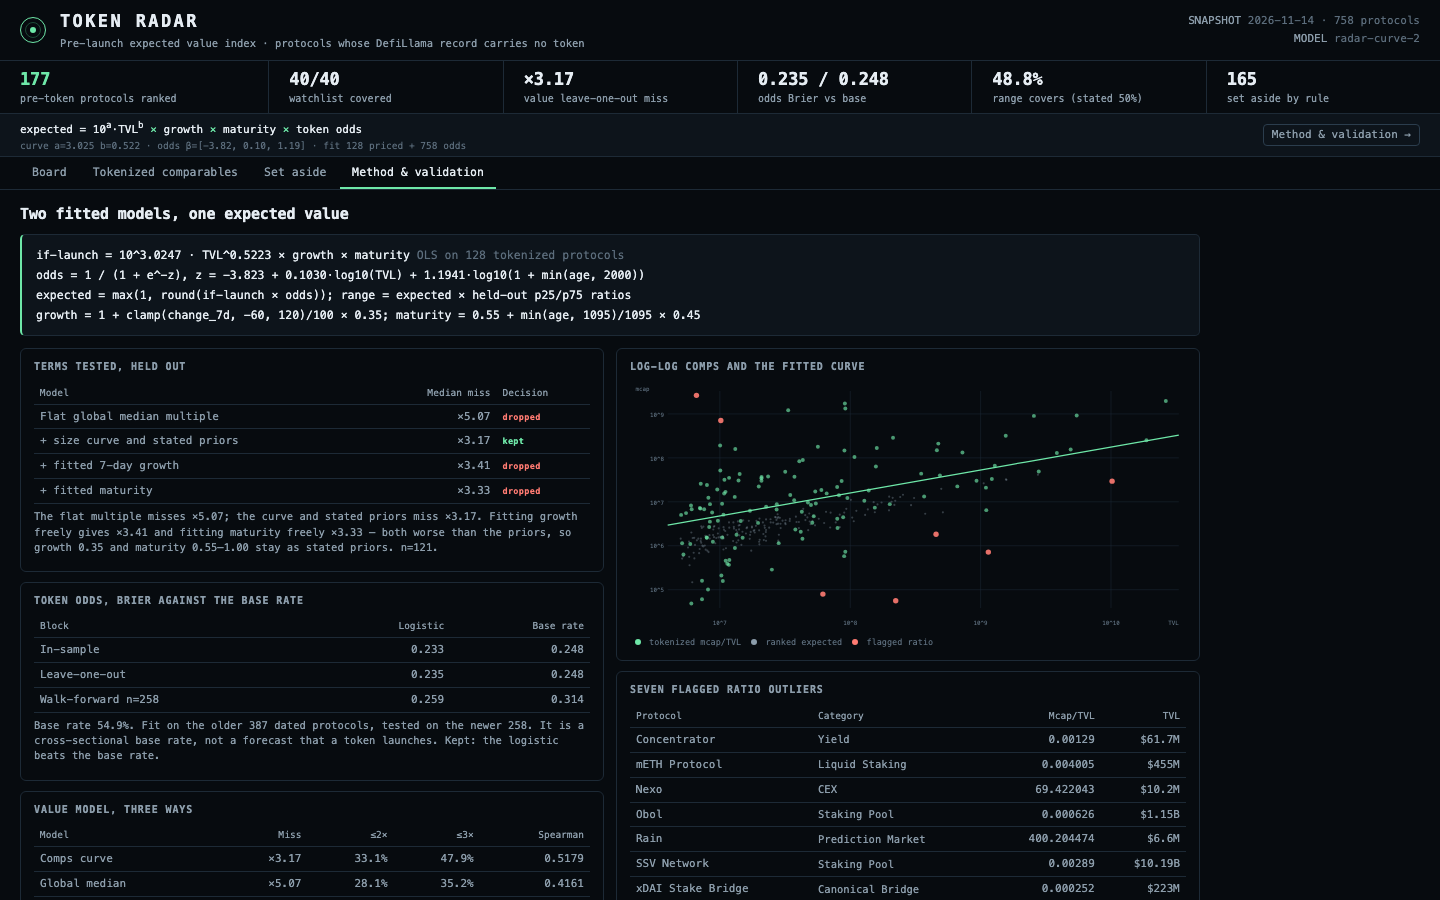
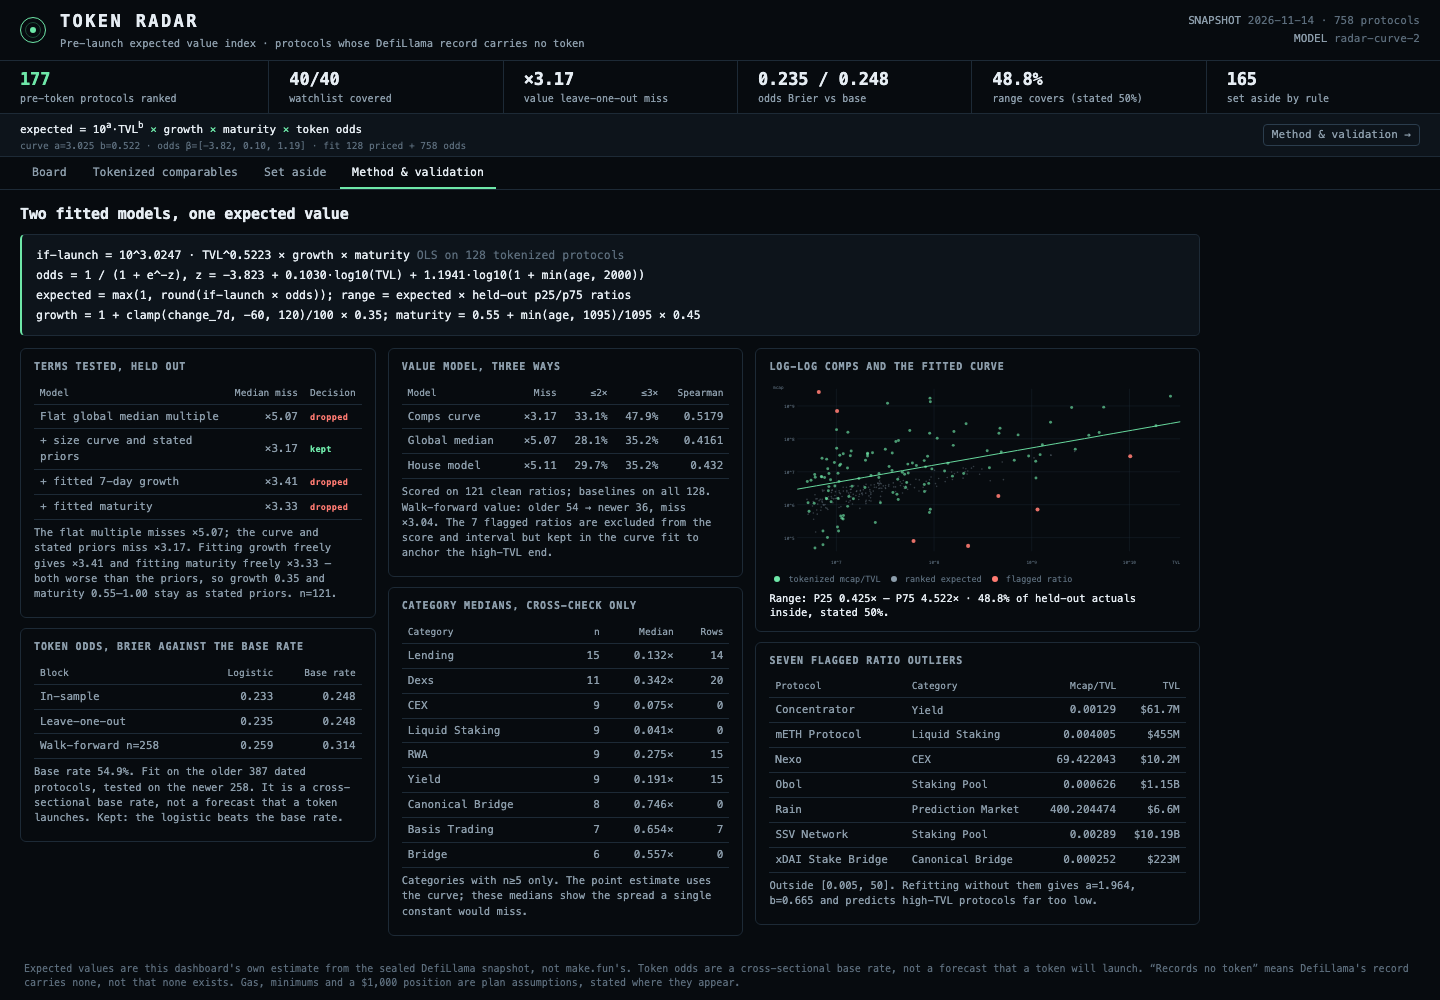
Fit the board table to 1440px and compact the method layout
- Fixed table layout, 1360px max width, 38px right margin; 11px header and cells
- Shorter labels: If launch, Expected, Drop/$1k, Net if launch, Net $/h, Plan
- Last column has a 14px right padding; protocol sublines ellipsis
- Ribbon legend wraps and stays inside the content width; brighter evidence lines
- Method: 3 columns, category medians n>=5, range line under the chart
- Screenshots: board and method 1440x1000, detail and filtered 1440x900
- Measured innerWidth 1440 / doc scrollWidth 1440 / table scrollWidth 1360

diff --git a/dashboard/app.js b/dashboard/app.js
@@ -72,9 +72,9 @@ const chains = [...chainCount.keys()].sort((a, b) => chainCount.get(b) - chainCo
 const maxTvl = Math.max(...R.rows.map((r) => r.tvl_usd));
 const COLS = [
   ['rank', '#', 'num'], ['name', 'Protocol', ''], ['tvl_usd', 'TVL', 'num'], ['change_7d', '7d', 'num'],
-  ['age_days', 'Age', 'num'], ['odds', 'Odds', 'num'], ['if_launch_usd', 'If launches', 'num'],
-  ['implied_value_usd', 'Expected · P25–P75', 'num'], ['drop_per_1k_usd', 'Drop/$1k', 'num'],
-  ['net_if_launch_usd', 'Net if launch', 'num'], ['net_per_hour_usd', 'Net $/h', 'num'], ['hold_days', 'Verdict', 'num'],
+  ['age_days', 'Age', 'num'], ['odds', 'Odds', 'num'], ['if_launch_usd', 'If launch', 'num'],
+  ['implied_value_usd', 'Expected', 'num'], ['drop_per_1k_usd', 'Drop/$1k', 'num'],
+  ['net_if_launch_usd', 'Net if launch', 'num'], ['net_per_hour_usd', 'Net $/h', 'num'], ['hold_days', 'Plan', 'num'],
 ];
 const preVerdict = () => {
   const q = state.q.toLowerCase();
@@ -112,7 +112,7 @@ function evidence() {
       <div class="bigstat">${v.band.coverage}%</div>
       <div class="eline">inside P25–P75, against a stated 50%</div>
       <div class="eline">P25 ${R.curve.band.p25.toFixed(3)}× · P75 ${R.curve.band.p75.toFixed(3)}×</div>
-      <div class="eline">curve ${x2(v.curve.median_miss)} · global ${x2(v.global.median_miss)} · house ${x2(v.house.median_miss)}</div></div>
+      <div class="eline hi">curve ${x2(v.curve.median_miss)} · global ${x2(v.global.median_miss)} · house ${x2(v.house.median_miss)}</div></div>
   </div>`;
 }
 function chartSvg(W = 620, H = 280) {
@@ -283,7 +283,7 @@ function renderMethod() {
   const c = R.counts, t = R.terms, o = R.odds;
   const status = (n, cut) => n <= cut ? '<span class="keep">kept</span>' : '<span class="drop">dropped</span>';
   const termRows = [['Flat global median multiple', t.flat, status(t.flat, 4)], ['+ size curve and stated priors', t.curve, status(t.curve, 4)], ['+ fitted 7-day growth', t.growth, status(t.growth, t.curve)], ['+ fitted maturity', t.maturity, status(t.maturity, t.curve)]].map(([n, m, s]) => `<tr><td>${n}</td><td class="num">${x2(m)}</td><td>${s}</td></tr>`).join('');
-  const catRows = R.categories.map((k) => `<tr><td>${esc(k.name)}</td><td class="num">${k.n}</td><td class="num">${x(k.median)}</td><td class="num">${k.rows}</td></tr>`).join('');
+  const catRows = R.categories.filter((k) => k.n >= 5).sort((a, b) => b.n - a.n || cmp(a.name, b.name)).map((k) => `<tr><td>${esc(k.name)}</td><td class="num">${k.n}</td><td class="num">${x(k.median)}</td><td class="num">${k.rows}</td></tr>`).join('');
   const outRows = v.outliers.map((q) => `<tr><td>${esc(q.name)}</td><td class="sub">${esc(q.category ?? 'none')}</td><td class="num">${q.ratio}</td><td class="num">${usd(q.tvl_usd)}</td></tr>`).join('');
   const modelRow = (name, s) => `<tr><td>${name}</td><td class="num">${x2(s.median_miss)}</td><td class="num">${s.within_2x}%</td><td class="num">${s.within_3x}%</td><td class="num">${s.spearman}</td></tr>`;
   view.innerHTML = `<div class="prose">
@@ -302,13 +302,13 @@ function renderMethod() {
       <tr><td>Leave-one-out</td><td class="num">${o.brier_loo.toFixed(3)}</td><td class="num">${baseBrier.toFixed(3)}</td></tr>
       <tr><td>Walk-forward n=${o.walk.test_n}</td><td class="num">${o.walk.brier.toFixed(3)}</td><td class="num">${o.walk.base_brier.toFixed(3)}</td></tr></table>
       <p class="note">Base rate ${(o.base_rate * 100).toFixed(1)}%. Fit on the older ${o.walk.train_n} dated protocols, tested on the newer ${o.walk.test_n}. It is a cross-sectional base rate, not a forecast that a token launches. ${o.brier_loo < baseBrier ? 'Kept: the logistic beats the base rate.' : 'Not kept: it does not beat the base rate.'}</p></div>
+  </div><div>
     <div class="card"><h3>Value model, three ways</h3><table class="mtab"><tr><th>Model</th><th class="num">Miss</th><th class="num">≤2×</th><th class="num">≤3×</th><th class="num">Spearman</th></tr>${modelRow('Comps curve', v.curve)}${modelRow('Global median', v.global)}${modelRow('House model', v.house)}</table>
       <p class="note">Scored on ${v.clean_n} clean ratios; baselines on all ${v.fit_n}. Walk-forward value: older ${v.walk.train_n} → newer ${v.walk.test_n}, miss ${x2(v.walk.median_miss)}. The ${v.outlier_n} flagged ratios are excluded from the score and interval but kept in the curve fit to anchor the high-TVL end.</p></div>
+    <div class="card"><h3>Category medians, cross-check only</h3><table class="mtab"><tr><th>Category</th><th class="num">n</th><th class="num">Median</th><th class="num">Rows</th></tr>${catRows}</table><p class="note">Categories with n≥5 only. The point estimate uses the curve; these medians show the spread a single constant would miss.</p></div>
   </div><div>
-    <div class="card"><h3>Log-log comps and the fitted curve</h3>${chartSvg()}<div class="plegend"><i class="ld"></i> tokenized mcap/TVL <i class="lr"></i> ranked expected <i class="lo"></i> flagged ratio</div></div>
+    <div class="card"><h3>Log-log comps and the fitted curve</h3>${chartSvg()}<div class="plegend"><i class="ld"></i> tokenized mcap/TVL <i class="lr"></i> ranked expected <i class="lo"></i> flagged ratio</div><div class="rline">Range: P25 ${R.curve.band.p25.toFixed(3)}× – P75 ${R.curve.band.p75.toFixed(3)}× · ${v.band.coverage}% of held-out actuals inside, stated 50%.</div></div>
     <div class="card"><h3>Seven flagged ratio outliers</h3><table class="mtab"><tr><th>Protocol</th><th>Category</th><th class="num">Mcap/TVL</th><th class="num">TVL</th></tr>${outRows}</table><p class="note">Outside [${MODEL.ratio_lo}, ${MODEL.ratio_hi}]. Refitting without them gives a=${v.curve.filtered_a.toFixed(3)}, b=${v.curve.filtered_b.toFixed(3)} and predicts high-TVL protocols far too low.</p></div>
-    <div class="card"><h3>Category medians, cross-check only</h3><table class="mtab"><tr><th>Category</th><th class="num">n</th><th class="num">Median</th><th class="num">Rows</th></tr>${catRows}</table></div>
-    <div class="card"><h3>Ledger and assumptions</h3><p class="note">${c.protocols} = ${c.recorded_token} token + ${c.tokenless} no token; ranked ${c.ranked} = ${c.watchlist_ranked} watchlist + ${c.below_floor_ranked} early; token trades ${c.tokenized}; token no usable cap ${c.token_no_cap}; set aside ${c.set_aside}. Drop/$1k assumes ${Math.round(MODEL.drop_share * 100)}% of expected value to a $${commas(MODEL.deposit_usd)} depositor; gas at ${esc(PLAN.gas_note)}; age null → ${MODEL.age_assumed_days}d. One sealed day: LOO and walk-forward are the only tests it supports.</p></div>
   </div></div></div>`;
 }
 

diff --git a/dashboard/app.css b/dashboard/app.css
@@ -68,7 +68,7 @@ td.rank.top{color:var(--acc);font-weight:700;}
 .ivl{color:var(--faint);font-size:9.5px;margin-top:1px;white-space:nowrap;}
 .src{color:var(--faint);font-size:9px;margin-left:3px;}
 .delta{font-size:11.5px;}
-.plan{color:var(--muted);font-size:10.5px;white-space:nowrap;}
+.plan{color:var(--muted);font-size:11px;white-space:nowrap;}
 .vbadge{display:inline-block;padding:0 4px;border-radius:3px;font-size:9px;font-weight:700;letter-spacing:.04em;border:1px solid var(--line2);color:var(--muted);}
 .vbadge.farm{color:var(--acc);border-color:var(--acc-dim);}
 .vbadge.marg{color:var(--amber);border-color:var(--amber-dim);}
@@ -126,7 +126,7 @@ td.rank.top{color:var(--acc);font-weight:700;}
 .prose code{color:var(--acc);}
 .formula{background:var(--panel);border:1px solid var(--line);border-left:2px solid var(--acc);border-radius:5px;padding:10px 14px;margin:8px 0 12px;font-size:11.5px;line-height:1.75;color:var(--ink);}
 .formula span{color:var(--faint);}
-.mgrid{display:grid;grid-template-columns:1fr 1fr;gap:12px;align-items:start;}
+.mgrid{display:grid;grid-template-columns:1fr 1fr 1.25fr;gap:12px;align-items:start;}
 .mtab{width:100%;font-size:11px;}
 .mtab th,.mtab td{padding:4px 6px;border-bottom:1px solid var(--line);position:static;background:none;text-transform:none;letter-spacing:0;}
 .mtab th{color:var(--muted);font-size:9.5px;}
@@ -154,14 +154,16 @@ td.rank.top{color:var(--acc);font-weight:700;}
 .plegend .ld{background:var(--acc);}
 .plegend .lr{background:var(--muted);}
 .plegend .lo{background:var(--red);}
-.wrap table{font-size:11px;}
+.rline{color:var(--ink);font-size:10.5px;line-height:1.4;margin-top:4px;}
+.wrap table{font-size:11px;table-layout:fixed;width:100%;max-width:1360px;}
+.wrap table th{font-size:11px;letter-spacing:.03em;}
 .controls input[type="search"]{width:132px;}
 .controls select{max-width:142px;}
 .controls .slider input[type="range"]{width:100px;}
-.ribbon{margin:0 0 6px;}
+.ribbon{margin:0 0 6px;padding-right:6px;}
 .rbar{display:flex;height:13px;border:1px solid var(--line);border-radius:4px;overflow:hidden;background:var(--bg);}
 .rbar i{display:block;height:100%;border-right:1px solid var(--bg);}
-.rlegend{display:flex;flex-wrap:wrap;gap:3px 15px;margin-top:3px;font-size:9.5px;color:var(--muted);}
+.rlegend{display:flex;flex-wrap:wrap;gap:3px 15px;margin-top:3px;padding-right:10px;font-size:10px;color:#b9c7d3;}
 .rlegend span{display:inline-flex;align-items:center;gap:5px;white-space:nowrap;}
 .rlegend i{width:8px;height:8px;border-radius:2px;display:inline-block;}
 .rlegend b{color:var(--ink);font-weight:600;}
@@ -170,8 +172,9 @@ td.rank.top{color:var(--acc);font-weight:700;}
 .evidence{display:grid;grid-template-columns:1fr 1fr 1fr;gap:7px;margin-bottom:6px;}
 .ecard{background:var(--panel);border:1px solid var(--line);border-radius:5px;padding:5px 8px;min-width:0;}
 .ecard h4{color:var(--muted);font-size:9px;text-transform:uppercase;letter-spacing:.08em;font-weight:600;margin:0 0 2px;}
-.eline{font-size:10px;color:var(--muted);line-height:1.35;white-space:nowrap;overflow:hidden;text-overflow:ellipsis;}
+.eline{font-size:10px;color:#b9c7d3;line-height:1.35;white-space:nowrap;overflow:hidden;text-overflow:ellipsis;}
 .eline b{color:var(--ink);font-weight:600;}
+.eline.hi{color:#eef4f9;}
 .keep{color:var(--acc);font-size:8.5px;font-weight:700;letter-spacing:.04em;}
 .drop{color:var(--red);font-size:8.5px;font-weight:700;letter-spacing:.04em;}
 .bigstat{font-size:18px;font-weight:700;color:var(--acc);line-height:1.1;margin:0 0 1px;}
@@ -184,16 +187,20 @@ td.rank.top{color:var(--acc);font-weight:700;}
 .heroSub{font-size:11px;color:var(--muted);font-weight:500;letter-spacing:0;}
 .wrap{max-height:calc(100vh - 400px);min-height:260px;}
 .wrap table th:nth-child(1),.wrap table td:nth-child(1){width:36px;}
-.wrap table th:nth-child(2),.wrap table td:nth-child(2){min-width:188px;}
-.wrap table th:nth-child(3),.wrap table td:nth-child(3){width:66px;}
-.wrap table th:nth-child(4),.wrap table td:nth-child(4){width:58px;}
-.wrap table th:nth-child(5),.wrap table td:nth-child(5){width:72px;}
-.wrap table th:nth-child(6),.wrap table td:nth-child(6){width:54px;}
-.wrap table th:nth-child(7),.wrap table td:nth-child(7){width:74px;}
-.wrap table th:nth-child(8),.wrap table td:nth-child(8){width:112px;}
-.wrap table th:nth-child(9),.wrap table td:nth-child(9){width:76px;}
-.wrap table th:nth-child(10),.wrap table td:nth-child(10){width:82px;}
-.wrap table th:nth-child(11),.wrap table td:nth-child(11){width:66px;}
-.wrap table th:nth-child(12),.wrap table td:nth-child(12){width:112px;}
-.wrap table td,.wrap table th{padding:4px 5px;}
+.wrap table th:nth-child(2),.wrap table td:nth-child(2){width:400px;}
+.wrap table th:nth-child(3),.wrap table td:nth-child(3){width:72px;}
+.wrap table th:nth-child(4),.wrap table td:nth-child(4){width:60px;}
+.wrap table th:nth-child(5),.wrap table td:nth-child(5){width:80px;}
+.wrap table th:nth-child(6),.wrap table td:nth-child(6){width:58px;}
+.wrap table th:nth-child(7),.wrap table td:nth-child(7){width:88px;}
+.wrap table th:nth-child(8),.wrap table td:nth-child(8){width:126px;}
+.wrap table th:nth-child(9),.wrap table td:nth-child(9){width:82px;}
+.wrap table th:nth-child(10),.wrap table td:nth-child(10){width:98px;}
+.wrap table th:nth-child(11),.wrap table td:nth-child(11){width:74px;}
+.wrap table th:nth-child(12),.wrap table td:nth-child(12){width:160px;}
+.wrap table th:last-child,.wrap table td:last-child{padding-right:14px;}
+.wrap table td:nth-child(2) .name{display:inline-block;max-width:250px;overflow:hidden;text-overflow:ellipsis;white-space:nowrap;vertical-align:bottom;}
+.wrap table td:nth-child(2) .sub{max-width:390px;overflow:hidden;text-overflow:ellipsis;white-space:nowrap;}
+.wrap table th[data-k="implied_value_usd"]::after{content:"P25–P75";display:block;font-size:9px;color:var(--faint);letter-spacing:.04em;font-weight:400;}
+.wrap table td,.wrap table th{padding:4px 4px;}
 .chart{max-height:300px;}

diff --git a/dashboard/index.html b/dashboard/index.html
@@ -30,7 +30,7 @@
 <div class="scrim" id="scrim" hidden></div>
 <aside class="detail" id="detail" role="dialog" aria-modal="true" aria-labelledby="d-title" hidden></aside>
 <footer class="foot">Expected values are this dashboard's own estimate from the sealed DefiLlama snapshot, not make.fun's. Token odds are a cross-sectional base rate, not a forecast that a token will launch. &ldquo;Records no token&rdquo; means DefiLlama's record carries none, not that none exists. Gas, minimums and a $1,000 position are plan assumptions, stated where they appear.</footer>
-<script src="../data.js?v=8"></script>
-<script type="module" src="app.js?v=8"></script>
+<script src="../data.js?v=11"></script>
+<script type="module" src="app.js?v=11"></script>
 </body>
 </html>
